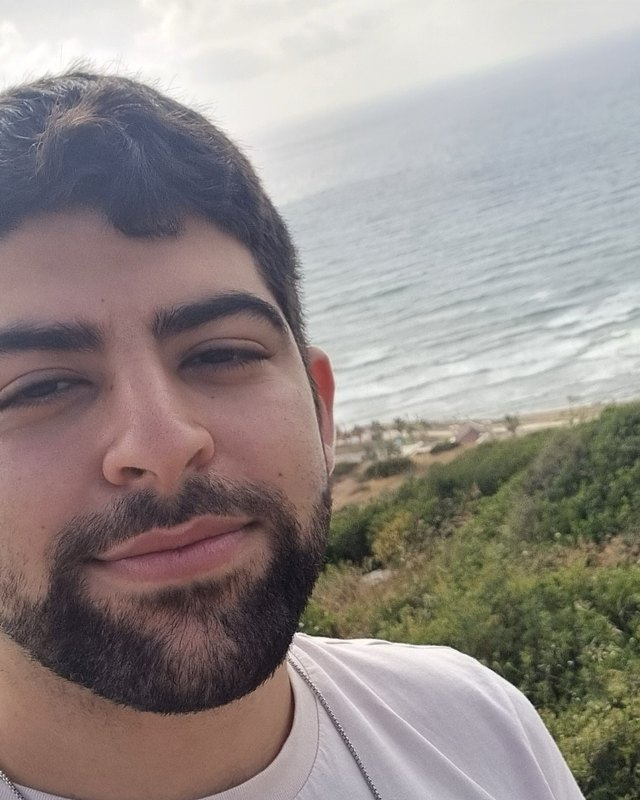
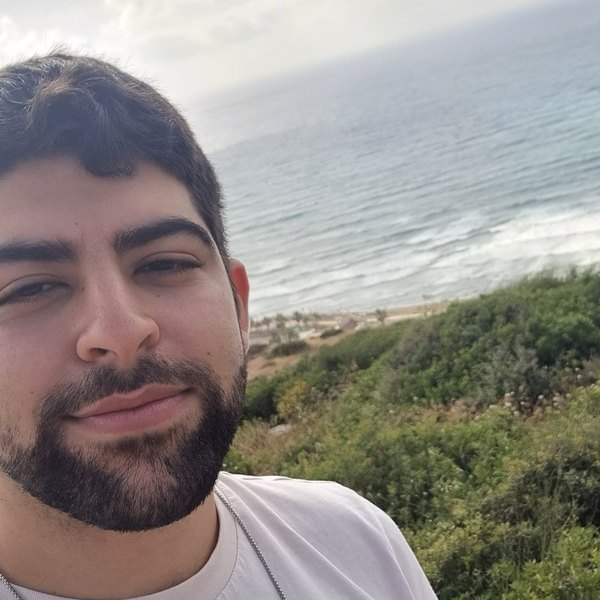
Round photo next to the name, zoomed out
Claude-Session: https://claude.ai/code/session_01Qe4rkpjxfBmtWm5RB9XTw1

diff --git a/index.html b/index.html
@@ -41,10 +41,10 @@
   .mark { font-weight: 700; color: var(--ink) !important; }
 
   /* ---------- hero ---------- */
-  .hero { padding: 56px 0 88px; display: grid; grid-template-columns: 1.5fr 1fr; gap: 64px; align-items: center; }
-  .hero .role { margin-bottom: 28px !important; }
-  .portrait { margin: 0; }
-  .portrait img { display: block; width: 100%; height: auto; aspect-ratio: 4 / 5; object-fit: cover; border-radius: 20px; }
+  .hero { padding: 64px 0 88px; display: grid; grid-template-columns: 1.35fr 1fr; gap: 56px; align-items: end; }
+  .name-row { display: flex; align-items: center; gap: clamp(18px, 3vw, 36px); margin-bottom: 28px; }
+  .name-row h1 { margin: 0 !important; }
+  .avatar { width: clamp(104px, 17vw, 220px); height: auto; aspect-ratio: 1; border-radius: 50%; object-fit: cover; flex: none; }
   .hero h1 {
     font-weight: 800;
     font-size: clamp(56px, 10vw, 128px);
@@ -121,9 +121,7 @@
 
   @media (max-width: 860px) {
     body { font-size: 17px; }
-    .hero { grid-template-columns: 1fr; gap: 28px; padding: 24px 0 64px; }
-    .portrait { order: -1; max-width: 260px; }
-    .portrait img { aspect-ratio: 1 / 1; object-position: 0% 45%; }
+    .hero { grid-template-columns: 1fr; gap: 32px; padding: 32px 0 64px; }
     .p-grid { grid-template-columns: 1fr; gap: 32px; }
     .project { padding: 64px 0; }
     .p-head { flex-wrap: wrap; }
@@ -149,13 +147,16 @@
   </header>
 
   <section class="hero">
-    <div class="intro">
-      <h1>Nadav<br>Cohen</h1>
-      <p class="role">Software engineering student at the Technion, building and shipping full-stack products.</p>
-      <div class="about">
-        <p>I'm a fourth-year student in Haifa, looking for a student position in software development or QA automation.</p>
-        <p>Outside of my courses I've built three live products: a movie and TV catalog with an AI recommender, a camping map of Israel with an AI trip planner, and a real-time card-game app. Before university I was a QA tester for medical devices at Biosense Webster.</p>
+    <div>
+      <div class="name-row">
+        <img class="avatar" src="img/nadav.jpg" alt="Nadav Cohen" width="600" height="600">
+        <h1>Nadav<br>Cohen</h1>
       </div>
+      <p class="role">Software engineering student at the Technion, building and shipping full-stack products.</p>
+    </div>
+    <div class="about">
+      <p>I'm a fourth-year student in Haifa, looking for a student position in software development or QA automation.</p>
+      <p>Outside of my courses I've built three live products: a movie and TV catalog with an AI recommender, a camping map of Israel with an AI trip planner, and a real-time card-game app. Before university I was a QA tester for medical devices at Biosense Webster.</p>
       <div class="actions">
         <a class="btn solid" href="Nadav_Cohen_CV.pdf">Download CV</a>
         <a class="btn" href="https://github.com/Nadav167">GitHub</a>
@@ -163,9 +164,6 @@
         <a class="btn" href="mailto:nadav167@gmail.com">Email me</a>
       </div>
     </div>
-    <figure class="portrait">
-      <img src="img/nadav.jpg" alt="Nadav Cohen on the coast near Haifa" width="640" height="800">
-    </figure>
   </section>
 </div>
 
